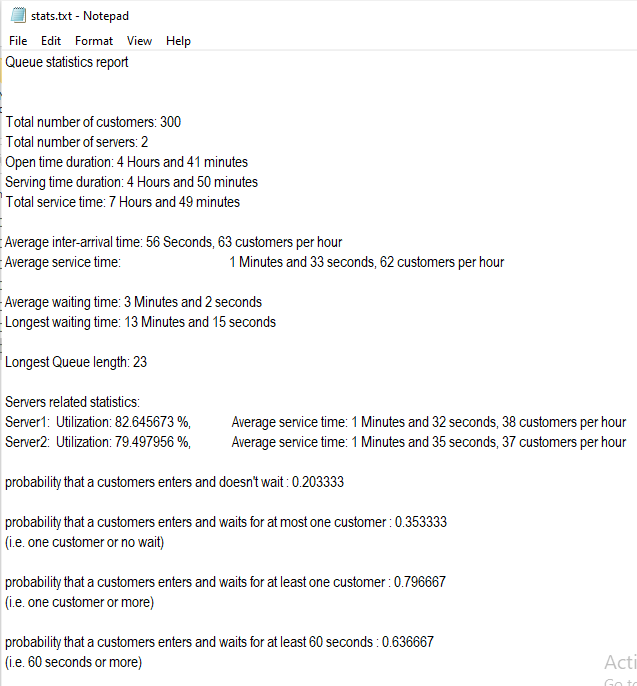
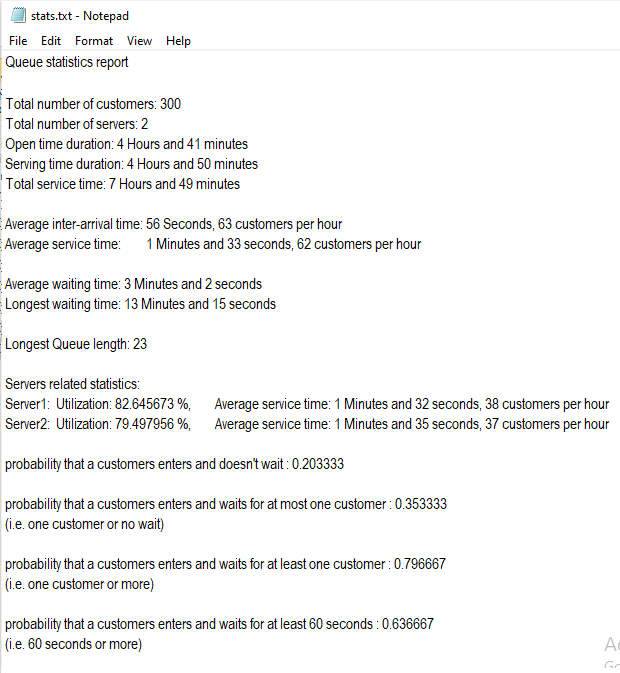
Image issue fix, Final edit to the images

Changed region(s): [[0.0, 0.0, 0.9806, 0.9985], [0.95, 0.9361, 1.0, 1.0]]

diff --git a/README.md b/README.md
@@ -22,7 +22,7 @@
 
 
 ### **Output:**  
-![Output picture](https://github.com/diaa3007/QueueSystemSimulation/blob/master/img/out.png)  
+![Output picture](https://github.com/diaa3007/QueueSystemSimulation/blob/master/img/out.png?raw=true)  
 
 &nbsp;
 &nbsp; 
